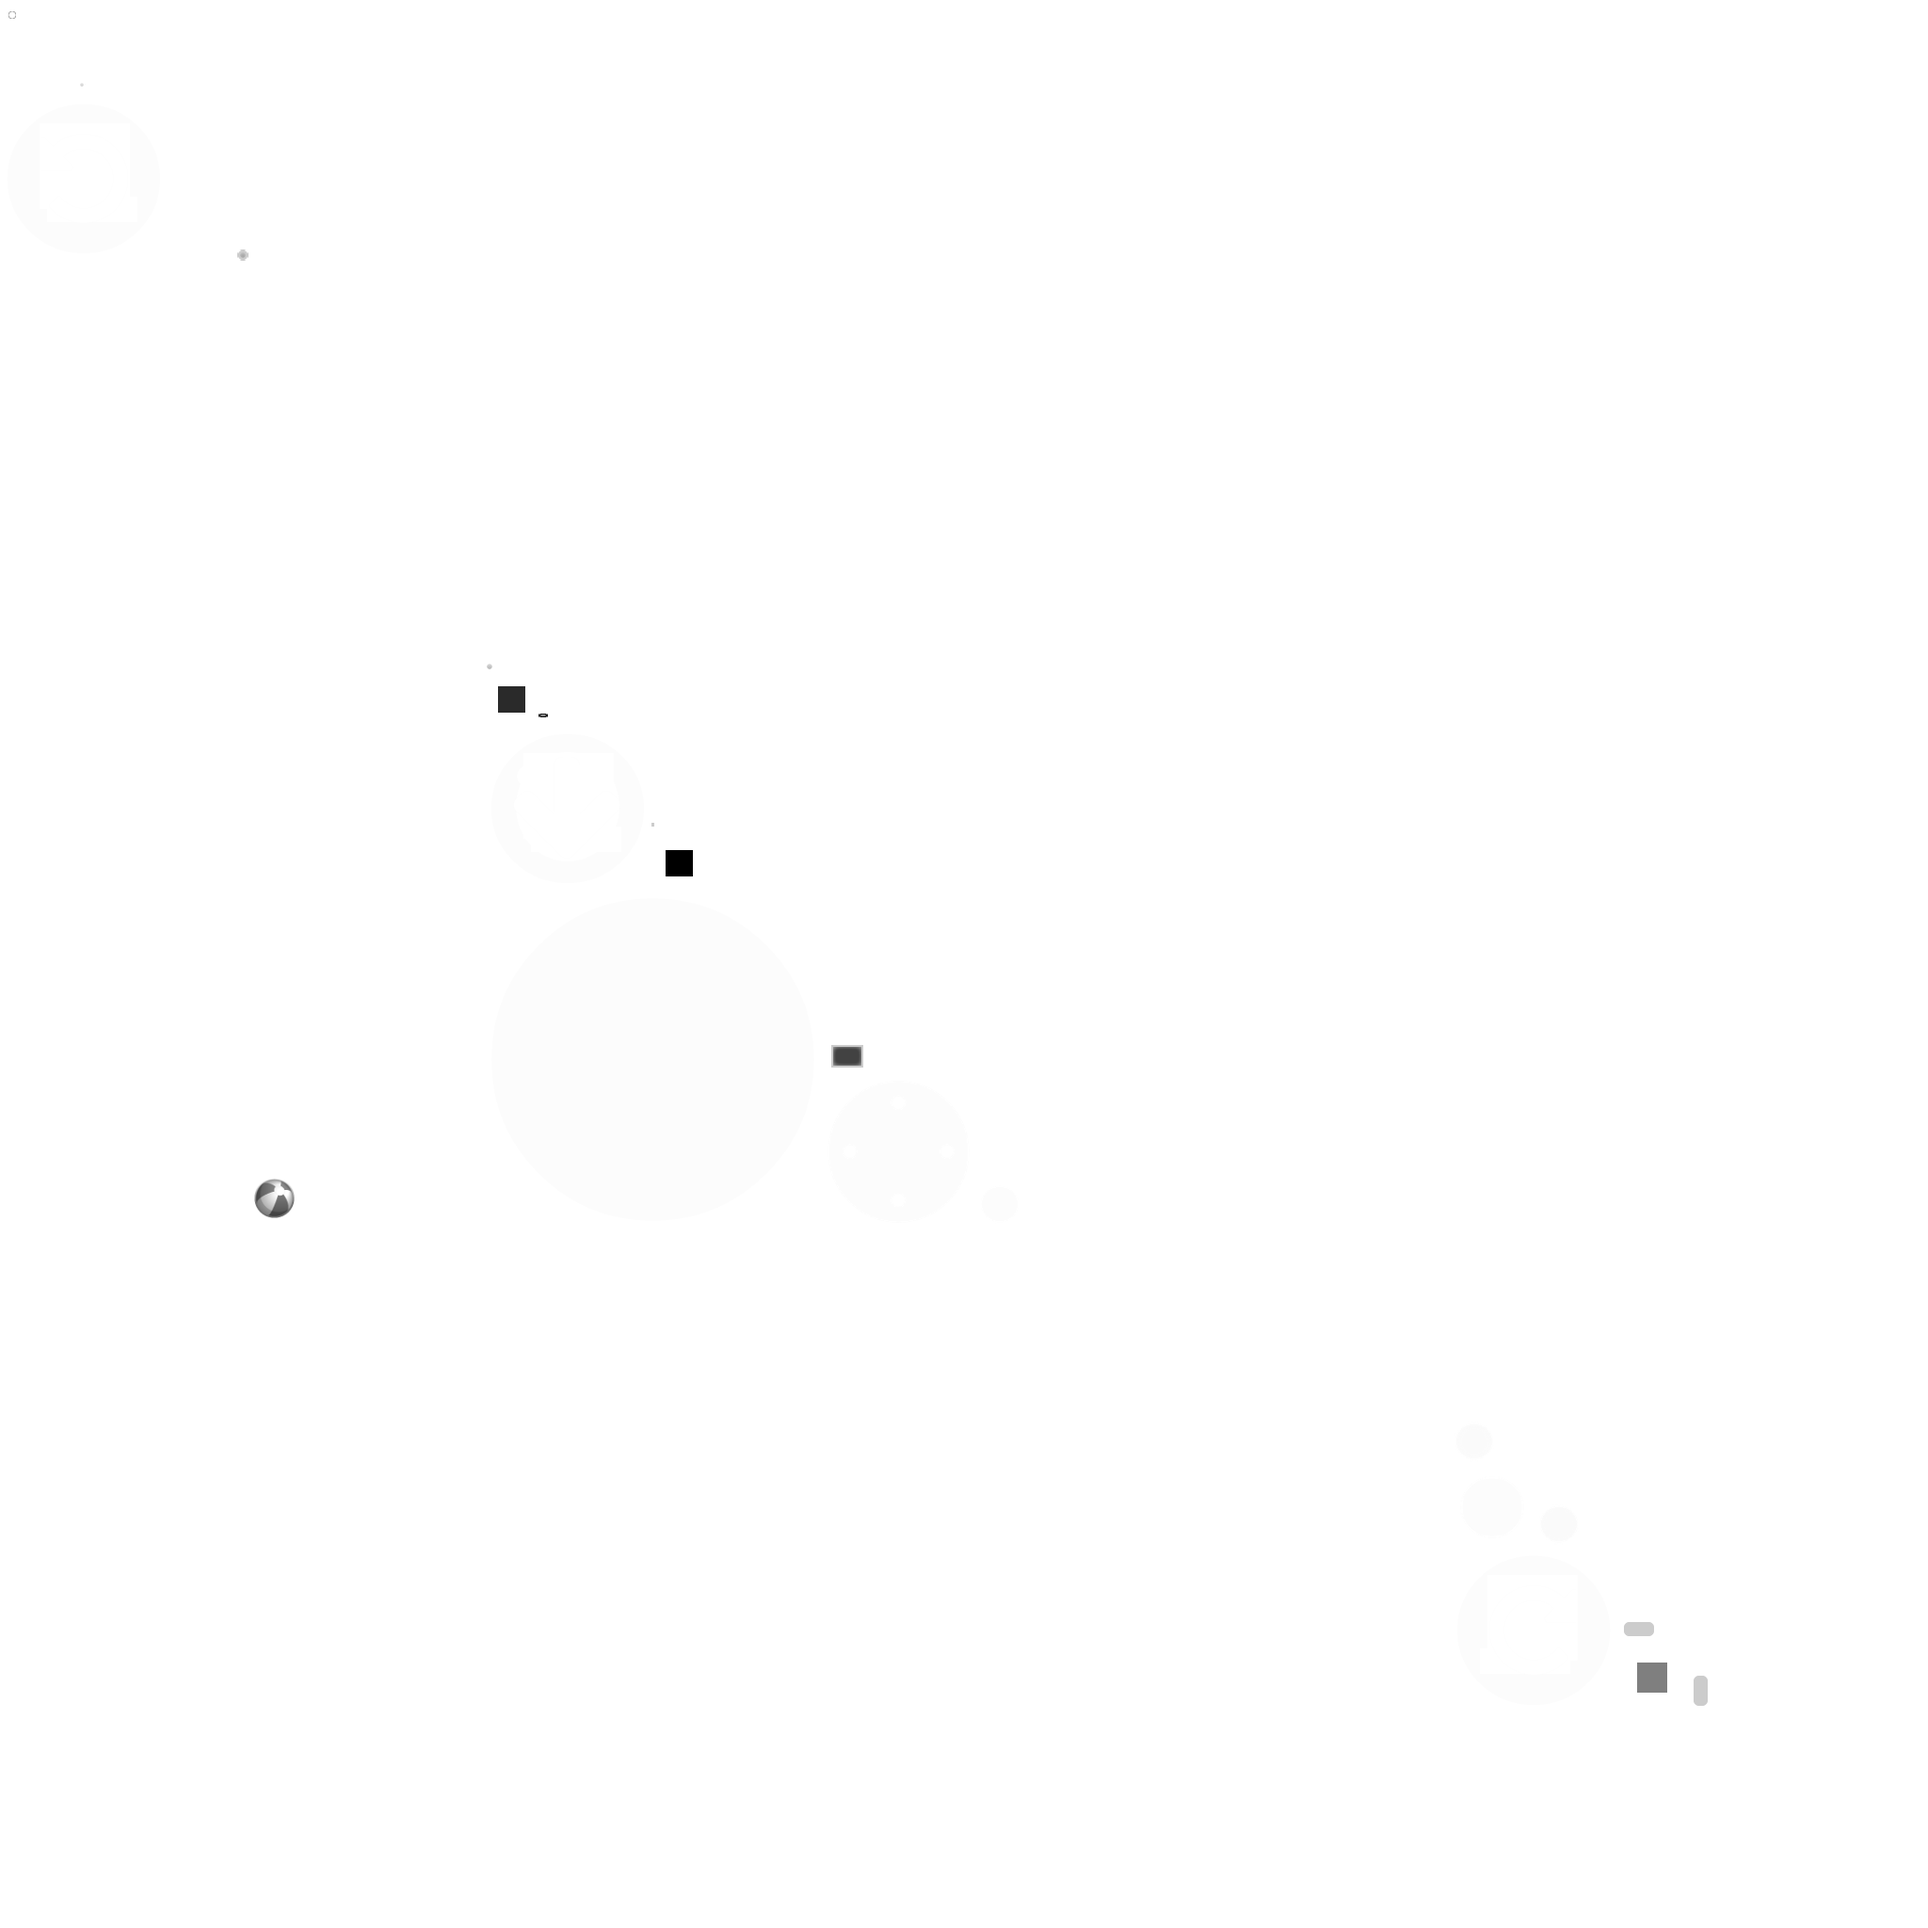
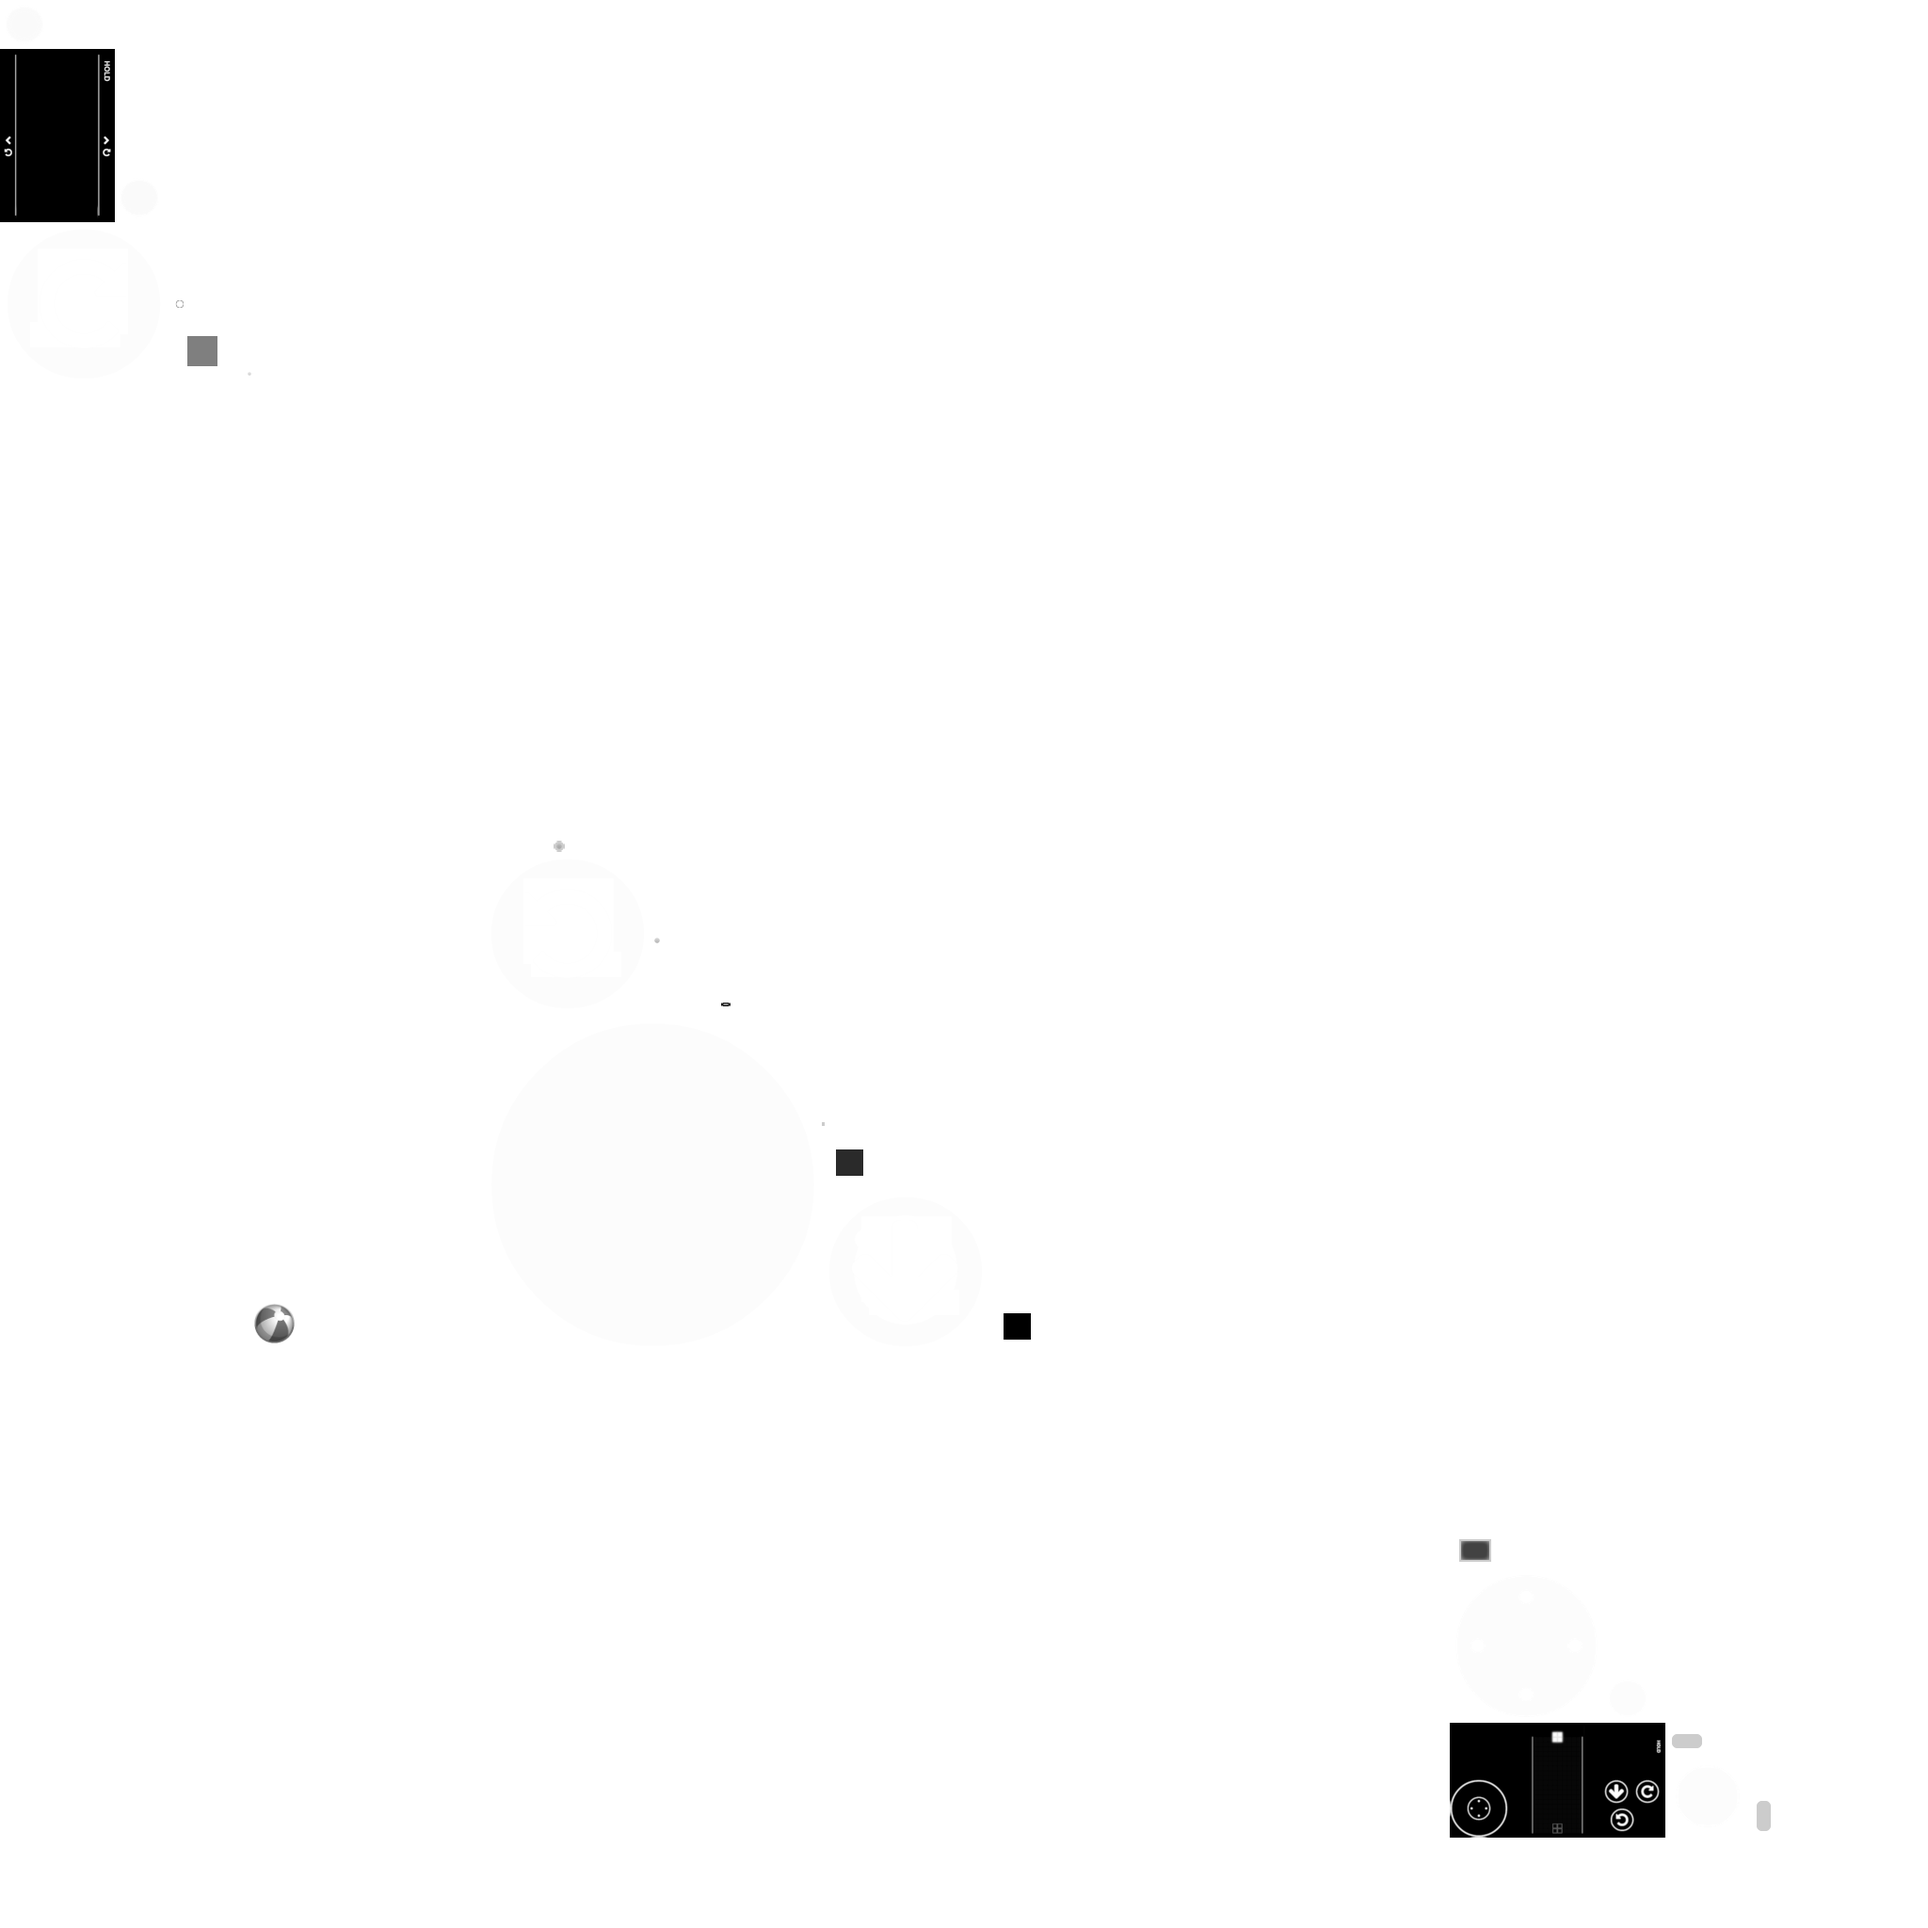
Einstellungen Touchkontrollen: Vorschaubilder für On Screen Gamepad/Buttons

diff --git a/core/src/de/golfgl/lightblocks/menu/SettingsScreen.java b/core/src/de/golfgl/lightblocks/menu/SettingsScreen.java
@@ -35,8 +35,10 @@ import de.golfgl.lightblocks.scene2d.FaRadioButton;
 import de.golfgl.lightblocks.scene2d.GlowLabelButton;
 import de.golfgl.lightblocks.scene2d.MyStage;
 import de.golfgl.lightblocks.scene2d.PagedScrollPane;
+import de.golfgl.lightblocks.scene2d.RoundedTextButton;
 import de.golfgl.lightblocks.scene2d.ScaledLabel;
 import de.golfgl.lightblocks.scene2d.TouchableSlider;
+import de.golfgl.lightblocks.scene2d.VetoDialog;
 import de.golfgl.lightblocks.screen.AbstractScreen;
 import de.golfgl.lightblocks.screen.FontAwesome;
 import de.golfgl.lightblocks.screen.PlayGesturesInput;
@@ -360,20 +362,28 @@ public class SettingsScreen extends AbstractMenuDialog {
             gestureSettings.row();
             gestureSettings.add(swipeUp);
 
+            Button osbHelp = new RoundedTextButton(app.TEXTS.get("buttonHowToPlay"), app.skin);
+            addFocusableActor(osbHelp);
+            osbHelp.addListener(new ChangeListener() {
+                @Override
+                public void changed(ChangeEvent event, Actor actor) {
+                    new VetoDialog(app.TEXTS.get("inputOnScreenButtonHelp"), app.skin,
+                            .8f * LightBlocksGame.nativeGameWidth).show(getStage());
+                }
+            });
             onScreenButtonSettings = new Table();
-            ScaledLabel onScreenButtonHelp = new ScaledLabel(app.TEXTS.get("inputOnScreenButtonHelp"), app.skin,
-                    LightBlocksGame.SKIN_FONT_BIG);
-            onScreenButtonHelp.setWrap(true);
-            onScreenButtonHelp.setAlignment(Align.center);
-            onScreenButtonSettings.add(onScreenButtonHelp).fillX().expandX();
+            onScreenButtonSettings.add(new Image(app.trPreviewOsb));
+            onScreenButtonSettings.row();
+            onScreenButtonSettings.add(osbHelp).expandY().top();
             onScreenButtonSettings.validate();
 
+            Button adjustGamepad = new RoundedTextButton(app.TEXTS.get("buttonAdjust"), app.skin);
+            addFocusableActor(adjustGamepad);
+            adjustGamepad.setDisabled(true);
             onScreenGamepadSettings = new Table();
-            onScreenButtonHelp = new ScaledLabel(app.TEXTS.get("inputOnScreenGamepadHelp"), app.skin,
-                    LightBlocksGame.SKIN_FONT_BIG);
-            onScreenButtonHelp.setWrap(true);
-            onScreenButtonHelp.setAlignment(Align.center);
-            onScreenGamepadSettings.add(onScreenButtonHelp).fillX().expandX();
+            onScreenGamepadSettings.add(new Image(app.trPreviewOsg));
+            onScreenGamepadSettings.row().padTop(20);
+            onScreenGamepadSettings.add(adjustGamepad).expandY().top();
             onScreenGamepadSettings.validate();
 
             row();

diff --git a/core/src/de/golfgl/lightblocks/LightBlocksGame.java b/core/src/de/golfgl/lightblocks/LightBlocksGame.java
@@ -100,6 +100,8 @@ public class LightBlocksGame extends Game implements IGameServiceListener, IPush
     public TextureRegion trGhostBlock;
     public TextureRegion trBlockEnlightened;
     public TextureRegion trGlowingLine;
+    public TextureRegion trPreviewOsb;
+    public TextureRegion trPreviewOsg;
     public Sound dropSound;
     public Sound rotateSound;
     public Sound removeSound;
@@ -276,6 +278,8 @@ public class LightBlocksGame extends Game implements IGameServiceListener, IPush
         cleanFreezedSound = assetManager.get(getSoundAssetFilename("cleanfreeze"), Sound.class);
         freezeBeginSound = assetManager.get(getSoundAssetFilename("freezestart"), Sound.class);
         swoshSound = assetManager.get(getSoundAssetFilename("swosh"), Sound.class);
+        trPreviewOsb = skin.getRegion("playscreen-osb");
+        trPreviewOsg = skin.getRegion("playscreen-osg");
 
         COLOR_DISABLED = skin.getColor("disabled");
         COLOR_FOCUSSED_ACTOR = skin.getColor("lightselection");
